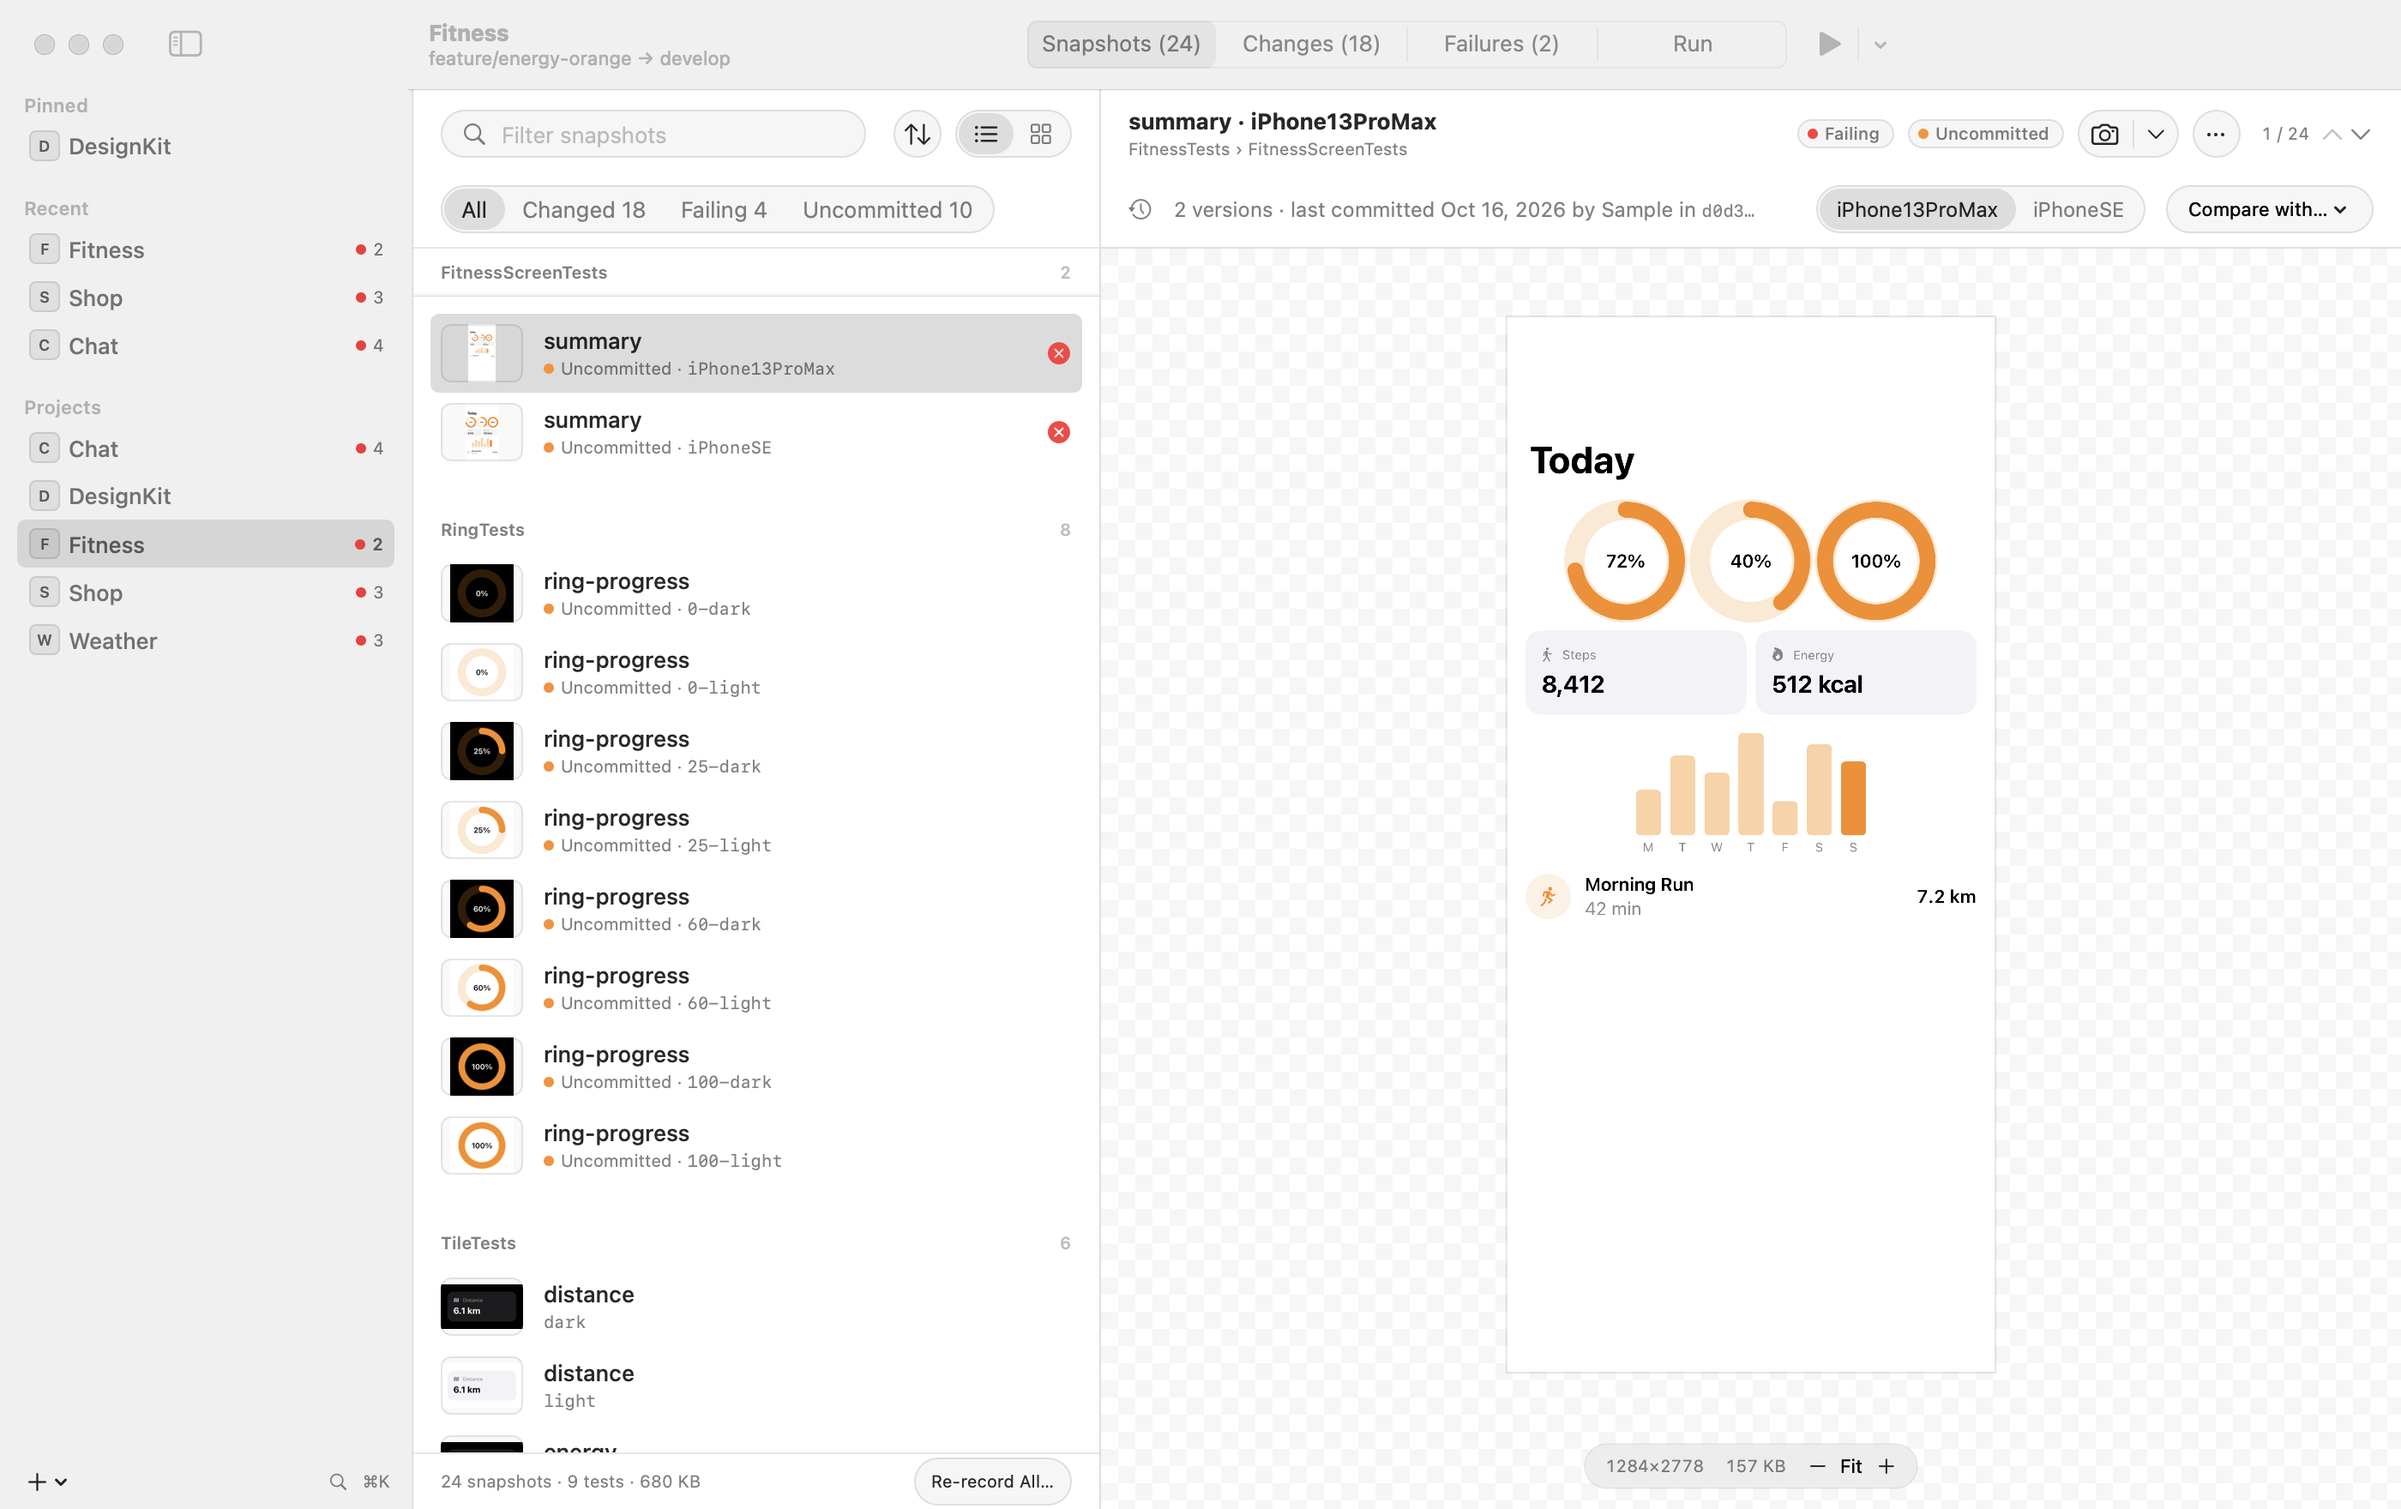
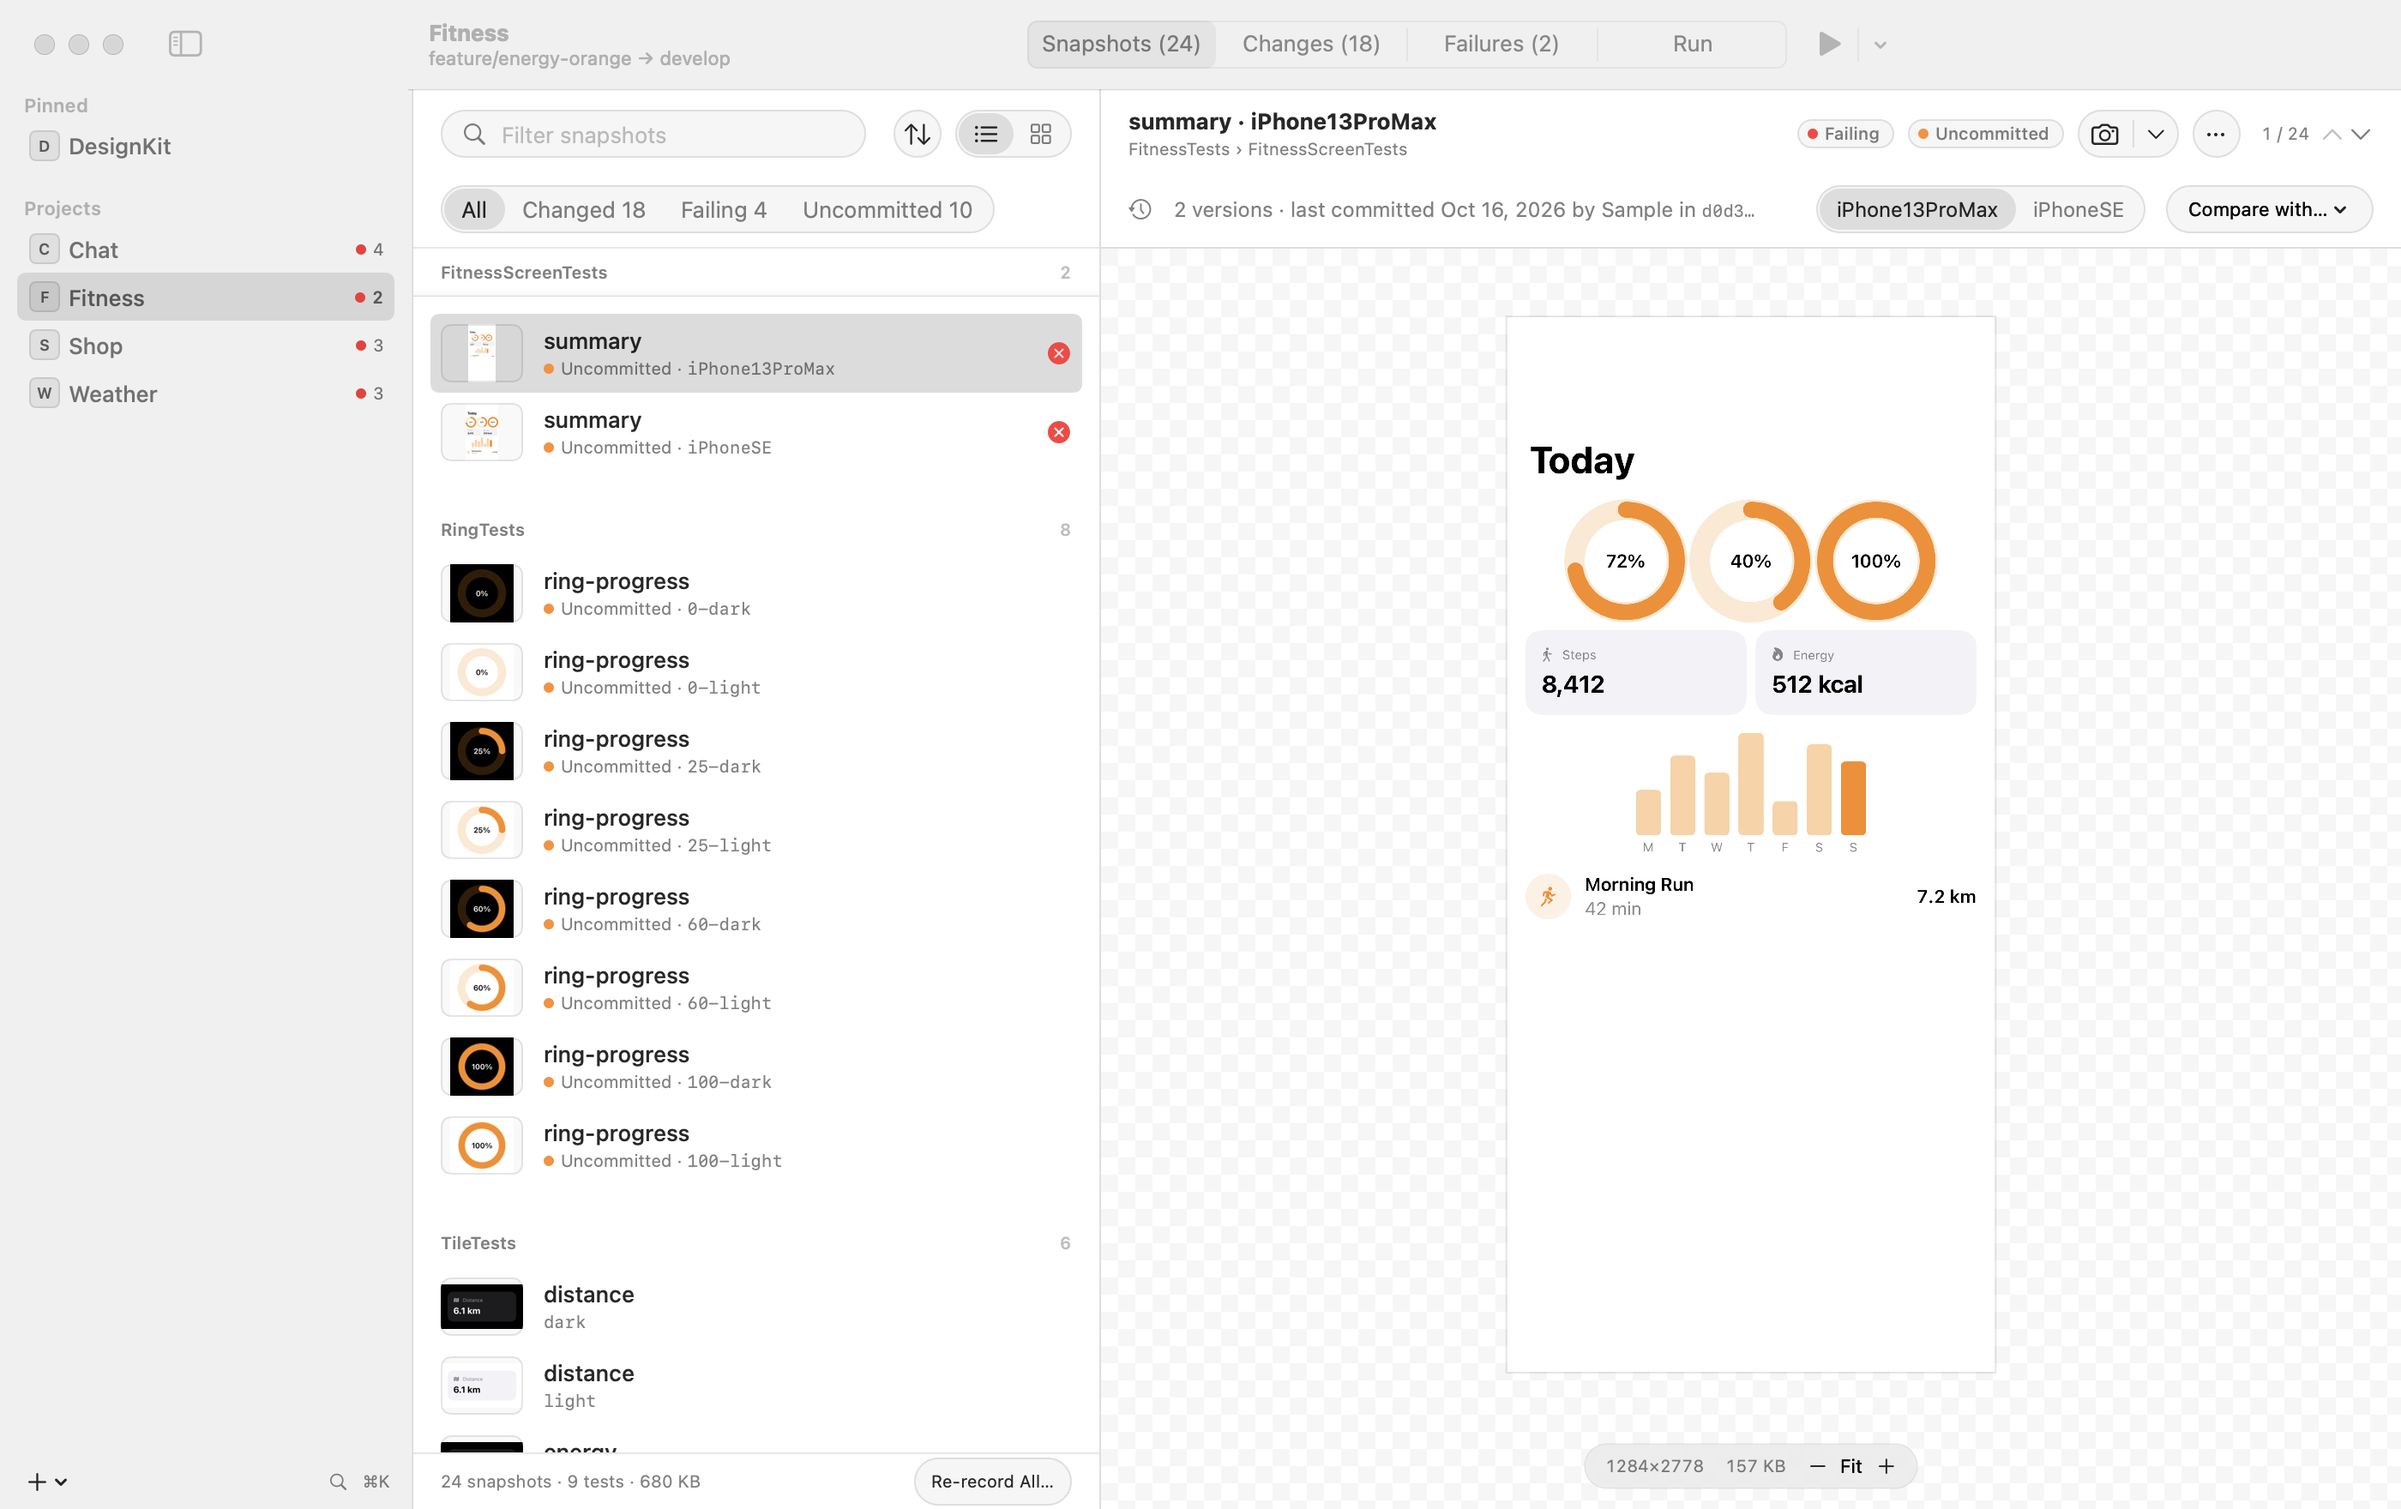
List each project once and drop what repeats on screen
- The sidebar listed most projects twice: under Pinned or Recent, and
  again under Projects, each with its failing count. Pinned projects
  now leave the alphabetical list, and Recent appears only once there
  are more than eight projects, as a shortcut into a long list.
- The Changes header's kind chip repeated the selected row beside it
  (and the line under it); the header chips that remain all lead
  somewhere. The footer shows its "viewed" bar only once something is.
- The Run tab names the last run as the Failures header does:
  "Last run · local · …".

Changed region(s): [[0.0, 0.1562, 0.1864, 0.2812], [0.0, 0.3125, 0.1864, 0.4375]]

diff --git a/Sources/SnapshotKit/Views/SidebarView.swift b/Sources/SnapshotKit/Views/SidebarView.swift
@@ -5,19 +5,24 @@ struct SidebarView: View {
     @Environment(AppModel.self) private var model
 
     private var pinned: [Project] { model.projects.filter { model.isPinned($0) } }
+    /// Recent is a shortcut into a long list; in a short one every project is in view already, and
+    /// listing some twice only doubled the rows.
+    static let recentsAbove = 8
     private var recents: [Project] {
+        guard all.count > Self.recentsAbove else { return [] }
         let recent = Set(model.store.settings.recents)
         return model.projects.filter { recent.contains($0.path) && !model.isPinned($0) }
     }
-    /// Every project, alphabetically, in a fixed place: opening one adds it to Recent but doesn't
-    /// take it out of here.
+    /// The projects not pinned, alphabetically, in a fixed place: opening one adds it to Recent but
+    /// doesn't take it out of here.
     private var all: [Project] {
-        model.projects.sorted { $0.name.localizedStandardCompare($1.name) == .orderedAscending }
+        model.projects.filter { !model.isPinned($0) }
+            .sorted { $0.name.localizedStandardCompare($1.name) == .orderedAscending }
     }
 
-    /// Pinned and recent projects appear twice, so their shortcut rows get their own tags: a click
-    /// there highlights that row, not both.
-    private static let shortcutTags = ["pinned:", "recent:"]
+    /// In a long list recent projects appear twice, so their shortcut rows get their own tags: a
+    /// click there highlights that row, not both.
+    private static let shortcutTags = ["recent:"]
     @State private var clickedTag: String?
 
     private static func path(of tag: String) -> String {
@@ -40,18 +45,21 @@ struct SidebarView: View {
     var body: some View {
         List(selection: selection) {
             if !pinned.isEmpty {
-                Section("Pinned") { rows(pinned, tagPrefix: "pinned:") }
+                Section("Pinned") { rows(pinned) }
             }
             if !recents.isEmpty {
                 Section("Recent") { rows(recents, tagPrefix: "recent:") }
             }
-            Section(model.isScanning ? "Projects (scanning…)" : "Projects") {
-                if all.isEmpty {
-                    Text("Drop a repository here, or use + below.")
-                        .font(DS.Font.caption)
-                        .foregroundStyle(.secondary)
+            // Not when every project is pinned: a heading over nothing.
+            if !all.isEmpty || model.projects.isEmpty || model.isScanning {
+                Section(model.isScanning ? "Projects (scanning…)" : "Projects") {
+                    if model.projects.isEmpty {
+                        Text("Drop a repository here, or use + below.")
+                            .font(DS.Font.caption)
+                            .foregroundStyle(.secondary)
+                    }
+                    rows(all)
                 }
-                rows(all)
             }
         }
         .listStyle(.sidebar)

diff --git a/Sources/SnapshotKit/Views/ChangesTab.swift b/Sources/SnapshotKit/Views/ChangesTab.swift
@@ -36,8 +36,9 @@ struct ChangesTab: View {
                                      path: change.path,
                                      position: shown.firstIndex(of: change.id).map { ($0 + 1, shown.count) },
                                      step: { project.selectAdjacent($0) }) {
+                            // No kind chip: the selected row beside it says the kind already, and the
+                            // chips in a detail header lead somewhere (the library's go to Failures).
                             HStack(spacing: DS.Space.s) {
-                                Chip(text: change.kind.label, color: DS.Status.color(for: change.kind))
                                 let viewed = project.viewedChanges.contains(change.id)
                                 Button { project.setViewed(!viewed, for: change) } label: {
                                     Label("Viewed", systemImage: viewed ? "checkmark.circle.fill" : "circle")
@@ -248,11 +249,14 @@ struct ChangesTab: View {
                 Spacer(minLength: DS.Space.s)
                 if !set.changes.isEmpty {
                     let viewed = set.changes.filter { project.viewedChanges.contains($0.id) }.count
-                    Gauge(value: Double(viewed), in: 0...Double(set.changes.count)) { EmptyView() }
-                        .gaugeStyle(.accessoryLinearCapacity)
-                        .tint(DS.Status.passed)
-                        .frame(width: 44)
-                        .accessibilityHidden(true)
+                    // An empty bar beside "0 of 18 viewed" says nothing more.
+                    if viewed > 0 {
+                        Gauge(value: Double(viewed), in: 0...Double(set.changes.count)) { EmptyView() }
+                            .gaugeStyle(.accessoryLinearCapacity)
+                            .tint(DS.Status.passed)
+                            .frame(width: 44)
+                            .accessibilityHidden(true)
+                    }
                     Text("\(viewed) of \(set.changes.count) viewed").monospacedDigit().fixedSize()
                 }
             }

diff --git a/Sources/SnapshotKit/Views/ProjectView.swift b/Sources/SnapshotKit/Views/ProjectView.swift
@@ -523,7 +523,8 @@ struct RunStatusHeader: View {
             return "Took \(Self.elapsed(duration))"
         }
         if let source = project.failureSource {
-            return "\(source.label) on \(source.host), \(source.date.formatted(DS.Dates.moment.localized(locale, timeZone)))"
+            // As the Failures header says it: label, then where and when.
+            return "\(source.label) · \(source.host) · \(source.date.formatted(DS.Dates.moment.localized(locale, timeZone)))"
         }
         return "Runs the snapshot tests exactly like CI."
     }

diff --git a/CHANGELOG.md b/CHANGELOG.md
@@ -18,6 +18,9 @@ All notable changes to SnapshotKit are documented in this file. The format is ba
   only failing tests marked on the right, and the detail’s chip uses the same word. The toolbar’s re-record
   button (the same as each detail header’s) is gone, and the Run tab lists Xcode and the simulator once.
 - One main window: no New Window or window tabs; the Dock icon or the menu bar item brings it back.
+- Calmer chrome: the sidebar lists each project once (Recent appears only once the list is long); the Changes
+  header drops the kind chip the selected row already shows, and the footer its empty “viewed” bar; the Run tab
+  names the last run as the Failures tab does (“Last run · local · …”).
 - The same names everywhere: **Re-record Failing Suites** (Failures, Run tab, menus, ⌘K), **Check Flakiness of
   Failing Tests** (just *Check Flakiness* in the Failures bar, above the failures it checks), and **Zoom to
   Fit** for ⌘0. **Re-record All…** only ever means every snapshot.

diff --git a/docs/projects.md b/docs/projects.md
@@ -56,9 +56,9 @@ projects it finds.
 The sidebar has up to three sections:
 
 - **Pinned** — projects you pinned (right-click › Pin). Always at the top.
-- **Recent** — the projects you opened most recently, newest first (up to ten).
-- **Projects** — every project, alphabetically. A project stays in its place here when you open it; Pinned
-  and Recent are shortcuts to the same projects.
+- **Recent** — once you have more than eight projects: the ones you opened most recently, newest first (up to
+  ten), as shortcuts into the long list below.
+- **Projects** — every other project, alphabetically. A project stays in its place here when you open it.
 
 Each row shows the project’s initials, its name and, after a run with failures, a red dot with the number of
 failing tests. Hover a row for its full path. Right-click for **Pin**/**Unpin**, **Reveal in Finder** and

diff --git a/docs/changes.md b/docs/changes.md
@@ -56,7 +56,7 @@ to SnapshotKit from another app.
 Select a change to see it in the [compare view](comparing.md): the base branch on the left (or under the
 slider), this branch or the working tree on the right.
 
-The detail header shows the test name and variant, its breadcrumb, its kind, and:
+The detail header shows the test name and variant and its breadcrumb (the selected row says its kind), and:
 
 - **Viewed** — mark it reviewed, or unmark it: V in the list and ⌥⌘V anywhere toggle the mark. Marking a
   change as viewed also moves to the next unviewed change, so you can go through a branch with one shortcut.
